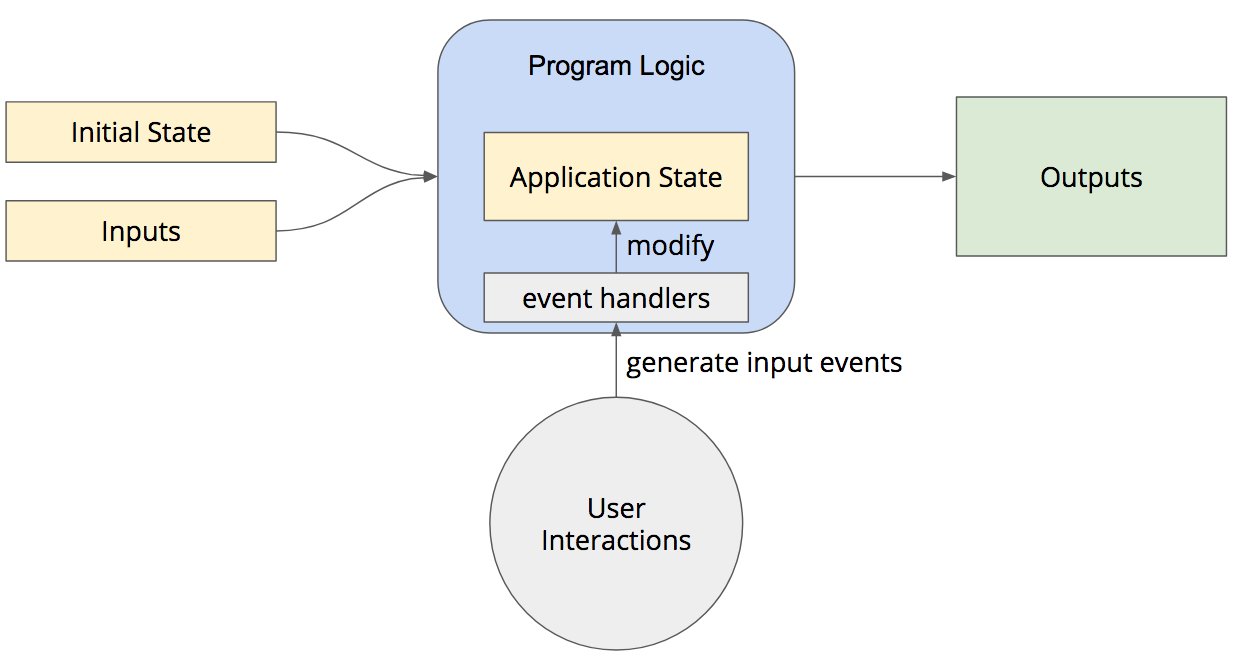
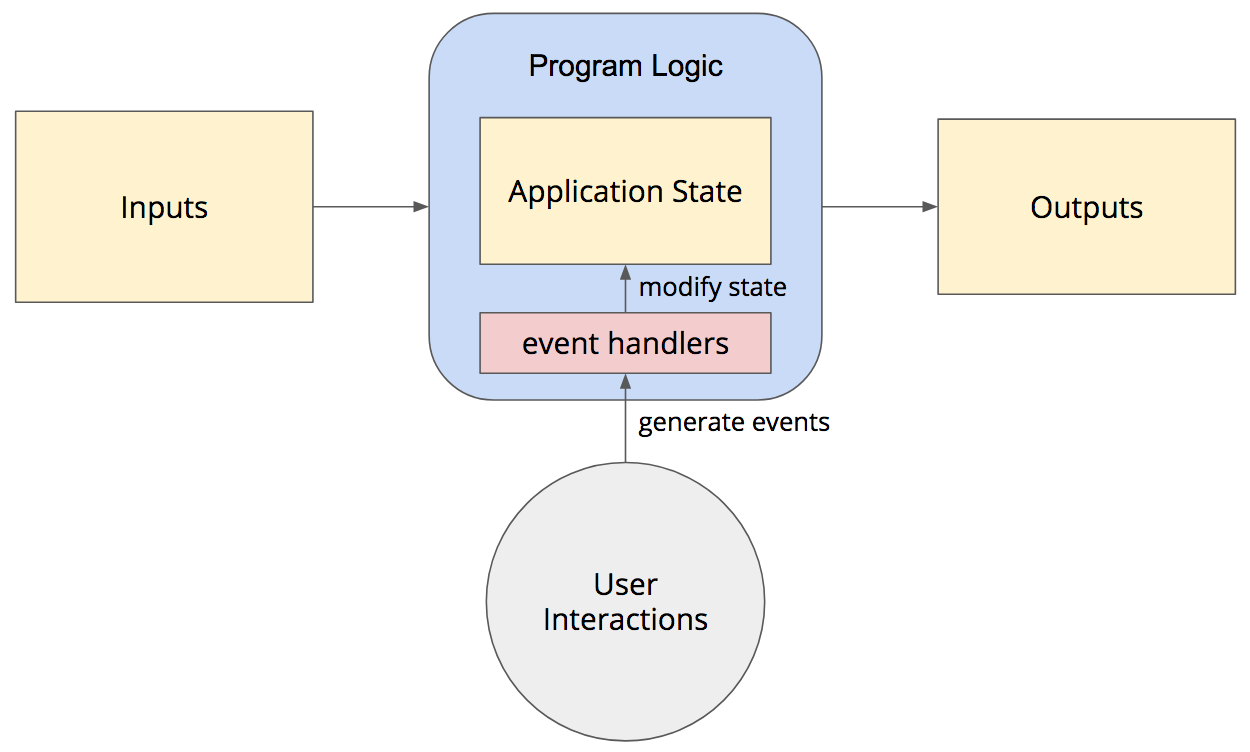
draft of arch tutorial

diff --git a/docs/eventarch/index.html b/docs/eventarch/index.html
@@ -1,1 +1,54 @@
-<!DOCTYPE html><html lang="en"><head><meta charset="UTF-8"><meta name="viewport" content="width=device-width,initial-scale=1"><meta http-equiv="X-UA-Compatible" content="ie=edge"><link rel="stylesheet" href="../lib/bulma.min.css"><link rel="stylesheet" href="../lib/font-awesome-4.7.0/css/font-awesome.min.css"><link rel="stylesheet" href="../lib/prism.css"><link rel="icon" href="../img/page-icon.png"><meta property="og:type" content="website"><meta property="og:site_name" content="INFO Tutorials"><meta property="og:title" content="Event-Driven Application Architecture"><meta property="og:description" content="How to code an application that renders state and handles user events"><meta property="og:image" content="https://drstearns.github.io/tutorials/img/page-icon.png"><title>Event-Driven Application Architecture</title><style>.is-funky{background-image:linear-gradient(to right,#006064,#880E4F)}.is-funky .subtitle,.is-funky .title{color:#fff}.screenshot{border:1px dotted #ccc;padding:10px;margin-bottom:1em}.bookmark-link{color:#ddd;margin-left:.25em}.home-link{color:#eee}.home-link:hover{color:#fff}.byline{font-size:.85rem;font-style:italic}.shaded{background-color:#eee}</style></head><body><header><div class="hero is-funky"><div class="hero-body"><div class="container"><div class="columns is-mobile"><div class="column"><h1 class="title">Event-Driven Application Architecture</h1><p class="subtitle">How to code an application that renders state and handles user events</p></div><div class="column is-narrow"><a href=".." class="home-link"><span class="icon is-medium"><i class="fa fa-home" aria-hidden="true" aria-label="back to table of contents"></i></span></a></div></div></div></div></div></header><main class="section"><div class="container"><div class="content"><p class="byline">Last edited on Jan 6, 2018 by <a href="https://ischool.uw.edu/people/faculty/dlsinfo">Dave Stearns</a></p><p><a href="../html">HTML</a>, <a href="../css">CSS</a>, <a href="../javascript">JavaScript</a>, and <a href="../dom">the Document Object Model</a> give us everything we need to build just about any web application we could imagine. But if you sit down and try to build something complex like a browser-based game, you will quickly realize that you are still missing something important: how to structure such an interactive application so that it's easy to implement, reason about, and extend. That is to say, you need to learn how we architect complex interactive applications, and how that architecture is typically represented in JavaScript.</p><h2 id="secsimpleapplicationarchitecture">Simple Application Architecture</h2><p>Most of the programs you wrote in your introductory computer science courses were non-interactive. These sorts of programs start with an initial state, which are the values of all the variables in the outer-most scope, and perhaps some input data that are provided as command-line arguments. The program then executes a series of logic operations on those data, and generates some sort of output before exiting.</p><p><img src="img/simple.png" alt="simple application architecture diagram"></p><p>Once the program starts, the initial state is combined with any provided inputs to form the current <strong>application state</strong>. An application's current state consists of all variables and parameter values that are currently in-scope. The program's logic interacts with this application state, reading from it and modifying it, as it goes along. At various points in the execution, the program generates outputs that typically depend on its current state.</p><p>But once a simple program like this begins to execute, it doesn't accept any further input from the user. The program executes all of its instructions from beginning to end and then exits. It doesn't respond to keystrokes or mouse clicks while executing, so all state transformations are the result of the program's own internal logic.</p><h2 id="secinteractiveeventdrivenapplicationarchitecture">Interactive Event-Driven Application Architecture</h2><p>Interactive applications extend this simple application architecture by responding to user interactions while the program is running. For example, a command-line program might prompt the user to enter a value, such as the user's name or the number of a menu item, and then respond accordingly. These programs still start with and manage a current application state, but the user can now modify that state via their interactions. For example, the user's current name is part of the application state, but starts out as an empty string. Once the user enters a name, the program updates the application state to match what the user entered, and then refers to that state value while executing the rest of the program.</p><p><img src="img/interactive.png" alt="interactive application architecture diagram"></p><p>Interactive programs that simply ask for a value and continue processing are typically written in a <strong>blocking</strong> style: the program calls a runtime library function to get input from the user, and that function blocks (pauses execution) until the user inputs the value. The function then continues execution of the program, returning the value it received from the user.</p><p>But more complex interactive applications, especially those that run on desktop GUI systems or web browsers, are written in an <strong>event-driven</strong> style. When these kinds of applications start, they do some initial processing that includes registering functions that should be called when various user interactions occur. For example, the program might declare a function called <code>onNewGameClick()</code> and then <a href="../dom/#seclisteningforevents">ask the browser to call that function whenever the user clicks a particular button</a>.</p><p>The event-driven programming style makes it easier to handle multiple of these interactions throughout the course of the application. Whenever a particular interaction occurs (touchscreen tap, mouse click, key press, etc.), the browser calls the appropriate function, which modifies your application state. At any moment, your program can read that state to know exactly what's going on and what it should do next.</p><h2 id="secthemodelviewcontrollerarchitecture">The Model-View-Controller Architecture</h2><h3 id="secmodels">Models</h3><h3 id="secviews">Views</h3><h3 id="seccontrollers">Controllers</h3></div></div></main><footer class="footer"><div class="container"><div class="content"><p>Created by <a href="https://ischool.uw.edu/people/faculty/dlsinfo">Dave Stearns</a>, <a href="https://ischool.uw.edu">The Information School</a>, <a href="https://uw.edu">University of Washington</a></p><p><a href=".."><span class="icon"><i class="fa fa-home"></i> </span>back to contents</a></p></div></div></footer><script>var headings=document.querySelectorAll("h2,h3,h4,h5");headings.forEach(function(e){var a=document.createElement("a");a.textContent="#",a.href="#"+e.id,a.classList.add("bookmark-link"),e.appendChild(a)})</script><script>!function(e,t,a,n,c,o,s){e.GoogleAnalyticsObject=c,e[c]=e[c]||function(){(e[c].q=e[c].q||[]).push(arguments)},e[c].l=1*new Date,o=t.createElement(a),s=t.getElementsByTagName(a)[0],o.async=1,o.src="https://www.google-analytics.com/analytics.js",s.parentNode.insertBefore(o,s)}(window,document,"script",0,"ga"),ga("create","UA-102177301-1","auto"),ga("send","pageview")</script></body></html>
+<!DOCTYPE html><html lang="en"><head><meta charset="UTF-8"><meta name="viewport" content="width=device-width,initial-scale=1"><meta http-equiv="X-UA-Compatible" content="ie=edge"><link rel="stylesheet" href="../lib/bulma.min.css"><link rel="stylesheet" href="../lib/font-awesome-4.7.0/css/font-awesome.min.css"><link rel="stylesheet" href="../lib/prism.css"><link rel="icon" href="../img/page-icon.png"><meta property="og:type" content="website"><meta property="og:site_name" content="INFO Tutorials"><meta property="og:title" content="Event-Driven Application Architecture"><meta property="og:description" content="How to code an application that renders state and handles user events"><meta property="og:image" content="https://drstearns.github.io/tutorials/img/page-icon.png"><title>Event-Driven Application Architecture</title><style>.is-funky{background-image:linear-gradient(to right,#006064,#880E4F)}.is-funky .subtitle,.is-funky .title{color:#fff}.screenshot{border:1px dotted #ccc;padding:10px;margin-bottom:1em}.bookmark-link{color:#ddd;margin-left:.25em}.home-link{color:#eee}.home-link:hover{color:#fff}.byline{font-size:.85rem;font-style:italic}.shaded{background-color:#eee}</style></head><body><header><div class="hero is-funky"><div class="hero-body"><div class="container"><div class="columns is-mobile"><div class="column"><h1 class="title">Event-Driven Application Architecture</h1><p class="subtitle">How to code an application that renders state and handles user events</p></div><div class="column is-narrow"><a href=".." class="home-link"><span class="icon is-medium"><i class="fa fa-home" aria-hidden="true" aria-label="back to table of contents"></i></span></a></div></div></div></div></div></header><main class="section"><div class="container"><div class="content"><p class="byline">Last edited on Jan 7, 2018 by <a href="https://ischool.uw.edu/people/faculty/dlsinfo">Dave Stearns</a></p><p><a href="../html">HTML</a>, <a href="../css">CSS</a>, <a href="../javascript">JavaScript</a>, and <a href="../dom">the Document Object Model</a> give us everything we need to build just about any web application we could imagine. But if you sit down and try to build something complex like a browser-based game, you will quickly realize that you are still missing something important: how to structure a complex, interactive application so that it's easy to implement, reason about, and extend. That is to say, you need to learn how to <em>architect</em> interactive applications, and how to express that architecture in JavaScript.</p><h2 id="secstate">State</h2><p>At the core of any program are the data values that the program is tracking or manipulating, which we refer to as the program's <strong>state</strong>. This state is stored in the program's variables and function parameters. As the program executes, it reads this state to decide what to do, and sometimes modifies the state based on the results of some operation. At any moment, this state determines where the program is at and what it will do next.</p><p>For example, a simple game like <a href="https://en.wikipedia.org/wiki/Pong">single-player Pong</a> has only a few state values that it needs to track:</p><ul><li>the x/y position of the "ball"</li><li>the vector on which the ball is currently traveling (i.e., which direction its going)</li><li>the y position of the "paddle"</li><li>the width/height of the "court"</li></ul><p>Given these dynamic state values, as well as some hard-coded ones (e.g., radius of the ball), one could easily render the current game objects to the screen. If we change these values and update the screen on a regular basis (e.g., within a <code>for</code> loop), the game will appear to animate.</p><h2 id="seceventdrivenprogramming">Event-Driven Programming</h2><p>Many of the programs you wrote in your introductory computer science courses were non-interactive. These programs have an internal state, and they might initialize some of that state based on command-line arguments provided by the user, but once they start running they don't allow the user to modify that state via input interactions. All state modifications are done by the program's own internal logic, and the program generates some outputs before exiting.</p><p><img src="img/simple.png" alt="simple non-interactive architecture diagram"></p><p>Interactive applications, on the other hand, allow the user to modify the program's state while it's running via various input methods (keyboard, mouse, gesture, specialized controller, voice, etc.). These programs are typically written in an <strong>event-driven</strong> programming style, where the program has two distinct phases:</p><ul><li>The <strong>initialization phase</strong>, during which the program initializes its state and adds various event listener functions. These event listener functions will be invoked whenever the requested event occurs (e.g., mouse click, key press, page scroll, timer, etc.)</li><li>The <strong>event phase</strong>, during which the program waits for those events to occur. Each time an event occurs, the corresponding event listener function is invoked. That function in turn modifies the program's state, and updates the screen to match.</li></ul><p><img src="img/interactive.png" alt="event-driven interactive architecture diagram"></p><p>Event-driven programming is especially useful when your program needs to respond to multiple types of events. You can write your program in the style of "when this happens, execute this function." Your program can be structured so that each event listener function handles only one kind of event, modifying the program's state and updating the screen accordingly. The program's state remains the "single source of truth" for the program.</p><h2 id="secexample">Example</h2><p>Let's return to our single-player Pong example to see how this interactive architecture and event-driven style can be expressed in a browser-based JavaScript application.</p><h3 id="secstate-1">State</h3><p>In a browser-based JavaScript application, the program's state is commonly held in one global (or top-level scope) object that has one property for each state value you need to track. For example, at the start of our Pong game JavaScript, we could declare one global variable named <code>state</code>, and add various properties for our game objects:</p><pre class="language-javascript"><code class="language-javascript"><span class="token comment" spellcheck="true">//overall state</span>
+<span class="token keyword">let</span> state <span class="token operator">=</span> <span class="token punctuation">{</span>
+    <span class="token comment" spellcheck="true">//court object</span>
+    court<span class="token punctuation">:</span> <span class="token punctuation">{</span>
+        width<span class="token punctuation">:</span> window<span class="token punctuation">.</span>innerWidth<span class="token punctuation">,</span>  <span class="token comment" spellcheck="true">//browser window width</span>
+        height<span class="token punctuation">:</span> window<span class="token punctuation">.</span>innerHeight <span class="token comment" spellcheck="true">//browser window height</span>
+    <span class="token punctuation">}</span><span class="token punctuation">,</span>
+    <span class="token comment" spellcheck="true">//ball object</span>
+    ball<span class="token punctuation">:</span> <span class="token punctuation">{</span>
+        x<span class="token punctuation">:</span> <span class="token comment" spellcheck="true">//...random x value...,</span>
+        y<span class="token punctuation">:</span> <span class="token comment" spellcheck="true">//...random y value...,</span>
+        vectorX<span class="token punctuation">:</span> <span class="token number">1</span><span class="token punctuation">,</span>
+        vectorY<span class="token punctuation">:</span> <span class="token number">1</span>
+    <span class="token punctuation">}</span><span class="token punctuation">,</span>
+    <span class="token comment" spellcheck="true">//paddle object</span>
+    paddle<span class="token punctuation">:</span> <span class="token punctuation">{</span>
+        y<span class="token punctuation">:</span> <span class="token number">0</span>
+    <span class="token punctuation">}</span>
+<span class="token punctuation">}</span></code></pre><p>Given this data and a few hard-coded values (e.g., ball radius, paddle <code>x</code> coordinate), we could render the current game state to the browser window in various ways. The simplest would be creating <a href="https://developer.mozilla.org/en-US/docs/Web/SVG">SVG elements</a> for each game object (<code>&lt;circle&gt;</code> for the ball, <code>&lt;rect&gt;</code> for the paddle). Another more high-performance approach would be to draw shapes on to an HTML <a href="https://developer.mozilla.org/en-US/docs/Web/API/Canvas_API/Tutorial"><code>&lt;canvas&gt;</code> element</a>.</p><h3 id="seceventlisteners">Event Listeners</h3><p>After initializing the state, the program would next need add event listeners for at least two events:</p><ul><li>a timer event that occurs at a regular interval, which we will use to adjust the x/y position of the ball</li><li>the mouse move event, which we will use to adjust the y position of the paddle</li></ul><p>To add the timer, use the <code>setInterval()</code> function in the DOM. It takes a function to call and the number of milliseconds between each timer event:</p><pre class="language-javascript"><code class="language-javascript"><span class="token keyword">function</span> <span class="token function">advanceBall</span><span class="token punctuation">(</span><span class="token punctuation">)</span> <span class="token punctuation">{</span>
+    <span class="token comment" spellcheck="true">//adjust the ball's x/y coordinate</span>
+    state<span class="token punctuation">.</span>ball<span class="token punctuation">.</span>x <span class="token operator">+</span><span class="token operator">=</span> state<span class="token punctuation">.</span>ball<span class="token punctuation">.</span>vectorX<span class="token punctuation">;</span>
+    state<span class="token punctuation">.</span>ball<span class="token punctuation">.</span>y <span class="token operator">+</span><span class="token operator">=</span> state<span class="token punctuation">.</span>ball<span class="token punctuation">.</span>vectorY<span class="token punctuation">;</span>
+
+    <span class="token comment" spellcheck="true">//if the ball has hit the top or bottom wall</span>
+    <span class="token comment" spellcheck="true">//negate vectorY so that it bounces back</span>
+    <span class="token keyword">if</span> <span class="token punctuation">(</span>state<span class="token punctuation">.</span>ball<span class="token punctuation">.</span>y <span class="token operator">-</span> state<span class="token punctuation">.</span>ball<span class="token punctuation">.</span>radius <span class="token operator">&lt;=</span> <span class="token number">0</span> <span class="token operator">||</span>
+        state<span class="token punctuation">.</span>ball<span class="token punctuation">.</span>y <span class="token operator">+</span> state<span class="token punctuation">.</span>ball<span class="token punctuation">.</span>radius <span class="token operator">>=</span> state<span class="token punctuation">.</span>court<span class="token punctuation">.</span>height<span class="token punctuation">)</span> <span class="token punctuation">{</span>
+        state<span class="token punctuation">.</span>ball<span class="token punctuation">.</span>vectorY <span class="token operator">*</span><span class="token operator">=</span> <span class="token operator">-</span><span class="token number">1</span><span class="token punctuation">;</span>
+    <span class="token punctuation">}</span>
+
+    <span class="token comment" spellcheck="true">//if the ball has hit the right wall</span>
+    <span class="token comment" spellcheck="true">//negate vectorX so that it bounces back</span>
+    <span class="token keyword">if</span> <span class="token punctuation">(</span>state<span class="token punctuation">.</span>ball<span class="token punctuation">.</span>x <span class="token operator">+</span> state<span class="token punctuation">.</span>ball<span class="token punctuation">.</span>radius <span class="token operator">>=</span> state<span class="token punctuation">.</span>court<span class="token punctuation">.</span>width<span class="token punctuation">)</span> <span class="token punctuation">{</span>
+        state<span class="token punctuation">.</span>ball<span class="token punctuation">.</span>vectorX <span class="token operator">*</span><span class="token operator">=</span> <span class="token operator">-</span><span class="token number">1</span><span class="token punctuation">;</span>
+    <span class="token punctuation">}</span>
+
+    <span class="token comment" spellcheck="true">//update the screen to match</span>
+    <span class="token comment" spellcheck="true">//TODO:</span>
+<span class="token punctuation">}</span>
+
+<span class="token comment" spellcheck="true">//call advanceBall() every 16 milliseconds</span>
+state<span class="token punctuation">.</span>ballTimer <span class="token operator">=</span> <span class="token function">setInterval</span><span class="token punctuation">(</span>advanceBall<span class="token punctuation">,</span> <span class="token number">16</span><span class="token punctuation">)</span><span class="token punctuation">;</span></code></pre><p>The <code>setInterval()</code> function returns a timer object that you can use to <a href="https://www.w3schools.com/jsref/met_win_clearinterval.asp">stop the timer</a> when the game ends. You can store this in a separate variable, or you can simply add it to your game state as a new property.</p><blockquote><p><strong>NOTE:</strong> most browsers now support a more efficient mechanism for this animation timer. Instead of calling <code>setInterval()</code> call <code>requestAnimationFrame()</code> instead. For more details, see <a href="https://developer.mozilla.org/en-US/docs/Web/API/window/requestAnimationFrame">the documentation for this function</a>. Note that <code>requestAnimationFrame()</code> calls your listener function only once, so you must call <code>requestAnimationFrame()</code> again at the end of your listener function if you want to continue animating.</p></blockquote><p>To listen for the mouse move event, use the <code>addEventListener()</code> method on the element the mouse will move over. In this case we can simply using the <code>&lt;body&gt;</code> element, as our "court" will take up the entire page.</p><pre class="language-javascript"><code class="language-javascript"><span class="token comment" spellcheck="true">//eventObj is provided by the DOM and it contains info about the event</span>
+<span class="token comment" spellcheck="true">//see https://developer.mozilla.org/en-US/docs/Web/Events/mousemove</span>
+<span class="token keyword">function</span> <span class="token function">adjustPaddle</span><span class="token punctuation">(</span>eventObj<span class="token punctuation">)</span> <span class="token punctuation">{</span>
+    <span class="token comment" spellcheck="true">//adjust the paddle's y coordinate so that</span>
+    <span class="token comment" spellcheck="true">//the middle of the paddle is at the same spot</span>
+    <span class="token comment" spellcheck="true">//as the mouse pointer</span>
+    state<span class="token punctuation">.</span>paddle<span class="token punctuation">.</span>y <span class="token operator">=</span> eventObj<span class="token punctuation">.</span>clientY <span class="token operator">-</span> <span class="token punctuation">(</span>state<span class="token punctuation">.</span>paddle<span class="token punctuation">.</span>height <span class="token operator">/</span> <span class="token number">2</span><span class="token punctuation">)</span><span class="token punctuation">;</span>
+
+    <span class="token comment" spellcheck="true">//update the screen to match</span>
+    <span class="token comment" spellcheck="true">//TODO:</span>
+<span class="token punctuation">}</span>
+
+document<span class="token punctuation">.</span>body<span class="token punctuation">.</span><span class="token function">addEventListener</span><span class="token punctuation">(</span><span class="token string">"mousemove"</span><span class="token punctuation">,</span> adjustPaddle<span class="token punctuation">)</span></code></pre><p>These two event listeners are all you need. The first updates the state of the ball, and the second updates the state of the paddle. The first will be called on a regular basis to animate the ball, and the second will be called whenever the user moves the mouse.</p><p>The only things left to do to make this game function are as follows:</p><ul><li>Add code to render the game state to the page. You can either create an SVG <code>&lt;circle&gt;</code> element for the ball and an SVG <code>&lt;rect&gt;</code> element for the paddle, or you can draw shapes on a <code>&lt;canvas&gt;</code> element.</li><li>Update the position of your rendered SVG elements, or redraw the shapes on the <code>&lt;canvas&gt;</code>, during the event listener functions.</li><li>During <code>advanceBall()</code> detect if the ball has gone to the left of the paddle, and if so, end the game.</li></ul><p>Give it a try!</p></div></div></main><footer class="footer"><div class="container"><div class="content"><p>Created by <a href="https://ischool.uw.edu/people/faculty/dlsinfo">Dave Stearns</a>, <a href="https://ischool.uw.edu">The Information School</a>, <a href="https://uw.edu">University of Washington</a></p><p><a href=".."><span class="icon"><i class="fa fa-home"></i> </span>back to contents</a></p></div></div></footer><script>var headings=document.querySelectorAll("h2,h3,h4,h5");headings.forEach(function(e){var a=document.createElement("a");a.textContent="#",a.href="#"+e.id,a.classList.add("bookmark-link"),e.appendChild(a)})</script><script>!function(e,t,a,n,c,o,s){e.GoogleAnalyticsObject=c,e[c]=e[c]||function(){(e[c].q=e[c].q||[]).push(arguments)},e[c].l=1*new Date,o=t.createElement(a),s=t.getElementsByTagName(a)[0],o.async=1,o.src="https://www.google-analytics.com/analytics.js",s.parentNode.insertBefore(o,s)}(window,document,"script",0,"ga"),ga("create","UA-102177301-1","auto"),ga("send","pageview")</script></body></html>

diff --git a/src/eventarch/index.md b/src/eventarch/index.md
@@ -1,37 +1,138 @@
-[HTML](../html), [CSS](../css), [JavaScript](../javascript), and [the Document Object Model](../dom) give us everything we need to build just about any web application we could imagine. But if you sit down and try to build something complex like a browser-based game, you will quickly realize that you are still missing something important: how to structure such an interactive application so that it's easy to implement, reason about, and extend. That is to say, you need to learn how we architect complex interactive applications, and how that architecture is typically represented in JavaScript.
+[HTML](../html), [CSS](../css), [JavaScript](../javascript), and [the Document Object Model](../dom) give us everything we need to build just about any web application we could imagine. But if you sit down and try to build something complex like a browser-based game, you will quickly realize that you are still missing something important: how to structure a complex, interactive application so that it's easy to implement, reason about, and extend. That is to say, you need to learn how to _architect_ interactive applications, and how to express that architecture in JavaScript.
 
-## Simple Application Architecture
+## State
 
-Most of the programs you wrote in your introductory computer science courses were non-interactive. These sorts of programs start with an initial state, which are the values of all the variables in the outer-most scope, and perhaps some input data that are provided as command-line arguments. The program then executes a series of logic operations on those data, and generates some sort of output before exiting.
+At the core of any program are the data values that the program is tracking or manipulating, which we refer to as the program's **state**. This state is stored in the program's variables and function parameters. As the program executes, it reads this state to decide what to do, and sometimes modifies the state based on the results of some operation. At any moment, this state determines where the program is at and what it will do next.
 
-![simple application architecture diagram](img/simple.png)
+For example, a simple game like [single-player Pong](https://en.wikipedia.org/wiki/Pong) has only a few state values that it needs to track:
 
-Once the program starts, the initial state is combined with any provided inputs to form the current **application state**. An application's current state consists of all variables and parameter values that are currently in-scope. The program's logic interacts with this application state, reading from it and modifying it, as it goes along. At various points in the execution, the program generates outputs that typically depend on its current state.
+- the x/y position of the "ball"
+- the vector on which the ball is currently traveling (i.e., which direction its going)
+- the y position of the "paddle"
+- the width/height of the "court"
 
-But once a simple program like this begins to execute, it doesn't accept any further input from the user. The program executes all of its instructions from beginning to end and then exits. It doesn't respond to keystrokes or mouse clicks while executing, so all state transformations are the result of the program's own internal logic.
+Given these dynamic state values, as well as some hard-coded ones (e.g., radius of the ball), one could easily render the current game objects to the screen. If we change these values and update the screen on a regular basis (e.g., within a `for` loop), the game will appear to animate.
 
-## Interactive Event-Driven Application Architecture
+## Event-Driven Programming
 
-Interactive applications extend this simple application architecture by responding to user interactions while the program is running. For example, a command-line program might prompt the user to enter a value, such as the user's name or the number of a menu item, and then respond accordingly. These programs still start with and manage a current application state, but the user can now modify that state via their interactions. For example, the user's current name is part of the application state, but starts out as an empty string. Once the user enters a name, the program updates the application state to match what the user entered, and then refers to that state value while executing the rest of the program.
+Many of the programs you wrote in your introductory computer science courses were non-interactive. These programs have an internal state, and they might initialize some of that state based on command-line arguments provided by the user, but once they start running they don't allow the user to modify that state via input interactions. All state modifications are done by the program's own internal logic, and the program generates some outputs before exiting.
 
-![interactive application architecture diagram](img/interactive.png)
+![simple non-interactive architecture diagram](img/simple.png)
 
-Interactive programs that simply ask for a value and continue processing are typically written in a **blocking** style: the program calls a runtime library function to get input from the user, and that function blocks (pauses execution) until the user inputs the value. The function then continues execution of the program, returning the value it received from the user.
+Interactive applications, on the other hand, allow the user to modify the program's state while it's running via various input methods (keyboard, mouse, gesture, specialized controller, voice, etc.). These programs are typically written in an **event-driven** programming style, where the program has two distinct phases:
 
-But more complex interactive applications, especially those that run on desktop GUI systems or web browsers, are written in an **event-driven** style. When these kinds of applications start, they do some initial processing that includes registering functions that should be called when various user interactions occur. For example, the program might declare a function called `onNewGameClick()` and then [ask the browser to call that function whenever the user clicks a particular button](../dom/#seclisteningforevents). 
+- The **initialization phase**, during which the program initializes its state and adds various event listener functions. These event listener functions will be invoked whenever the requested event occurs (e.g., mouse click, key press, page scroll, timer, etc.)
+- The **event phase**, during which the program waits for those events to occur. Each time an event occurs, the corresponding event listener function is invoked. That function in turn modifies the program's state, and updates the screen to match.
 
-The event-driven programming style makes it easier to handle multiple of these interactions throughout the course of the application. Whenever a particular interaction occurs (touchscreen tap, mouse click, key press, etc.), the browser calls the appropriate function, which modifies your application state. At any moment, your program can read that state to know exactly what's going on and what it should do next.
+![event-driven interactive architecture diagram](img/interactive.png)
 
-## The Model-View-Controller Architecture
+Event-driven programming is especially useful when your program needs to respond to multiple types of events. You can write your program in the style of "when this happens, execute this function." Your program can be structured so that each event listener function handles only one kind of event, modifying the program's state and updating the screen accordingly. The program's state remains the "single source of truth" for the program.
+
+## Example
+
+Let's return to our single-player Pong example to see how this interactive architecture and event-driven style can be expressed in a browser-based JavaScript application.
+
+### State
+
+In a browser-based JavaScript application, the program's state is commonly held in one global (or top-level scope) object that has one property for each state value you need to track. For example, at the start of our Pong game JavaScript, we could declare one global variable named `state`, and add various properties for our game objects:
+
+```javascript
+//overall state
+let state = {
+	//court object
+	court: {
+		width: window.innerWidth,  //browser window width
+		height: window.innerHeight //browser window height
+	},
+	//ball object
+	ball: {
+		x: //...random x value...,
+		y: //...random y value...,
+		vectorX: 1,
+		vectorY: 1
+	},
+	//paddle object
+	paddle: {
+		y: 0
+	}
+}
+```
+
+Given this data and a few hard-coded values (e.g., ball radius, paddle `x` coordinate), we could render the current game state to the browser window in various ways. The simplest would be creating [SVG elements](https://developer.mozilla.org/en-US/docs/Web/SVG) for each game object (`<circle>` for the ball, `<rect>` for the paddle). Another more high-performance approach would be to draw shapes on to an HTML [`<canvas>` element](https://developer.mozilla.org/en-US/docs/Web/API/Canvas_API/Tutorial).
+
+### Event Listeners
+
+After initializing the state, the program would next need add event listeners for at least two events:
+
+- a timer event that occurs at a regular interval, which we will use to adjust the x/y position of the ball
+- the mouse move event, which we will use to adjust the y position of the paddle
+
+To add the timer, use the `setInterval()` function in the DOM. It takes a function to call and the number of milliseconds between each timer event:
+
+```javascript
+function advanceBall() {
+	//adjust the ball's x/y coordinate
+	state.ball.x += state.ball.vectorX;
+	state.ball.y += state.ball.vectorY;
+
+	//if the ball has hit the top or bottom wall
+	//negate vectorY so that it bounces back
+	if (state.ball.y - state.ball.radius <= 0 ||
+		state.ball.y + state.ball.radius >= state.court.height) {
+		state.ball.vectorY *= -1;
+	}
+
+	//if the ball has hit the right wall
+	//negate vectorX so that it bounces back
+	if (state.ball.x + state.ball.radius >= state.court.width) {
+		state.ball.vectorX *= -1;
+	}
+
+	//update the screen to match
+	//TODO:
+}
+
+//call advanceBall() every 16 milliseconds
+state.ballTimer = setInterval(advanceBall, 16);
+```
+
+The `setInterval()` function returns a timer object that you can use to [stop the timer](https://www.w3schools.com/jsref/met_win_clearinterval.asp) when the game ends. You can store this in a separate variable, or you can simply add it to your game state as a new property.
+
+> **NOTE:** most browsers now support a more efficient mechanism for this animation timer. Instead of calling `setInterval()` call `requestAnimationFrame()` instead. For more details, see [the documentation for this function](https://developer.mozilla.org/en-US/docs/Web/API/window/requestAnimationFrame). Note that `requestAnimationFrame()` calls your listener function only once, so you must call `requestAnimationFrame()` again at the end of your listener function if you want to continue animating.
+
+To listen for the mouse move event, use the `addEventListener()` method on the element the mouse will move over. In this case we can simply using the `<body>` element, as our "court" will take up the entire page.
+
+```javascript
+//eventObj is provided by the DOM and it contains info about the event
+//see https://developer.mozilla.org/en-US/docs/Web/Events/mousemove
+function adjustPaddle(eventObj) {
+	//adjust the paddle's y coordinate so that
+	//the middle of the paddle is at the same spot
+	//as the mouse pointer
+	state.paddle.y = eventObj.clientY - (state.paddle.height / 2);
+
+	//update the screen to match
+	//TODO:
+}
+
+document.body.addEventListener("mousemove", adjustPaddle)
+```
+
+These two event listeners are all you need. The first updates the state of the ball, and the second updates the state of the paddle. The first will be called on a regular basis to animate the ball, and the second will be called whenever the user moves the mouse.
+
+The only things left to do to make this game function are as follows:
+
+- Add code to render the game state to the page. You can either create an SVG `<circle>` element for the ball and an SVG `<rect>` element for the paddle, or you can draw shapes on a `<canvas>` element.
+- Update the position of your rendered SVG elements, or redraw the shapes on the `<canvas>`, during the event listener functions.
+- During `advanceBall()` detect if the ball has gone to the left of the paddle, and if so, end the game.
+
+Give it a try!
 
 
 
 
-### Models
 
 
-### Views
 
 
-### Controllers
 
